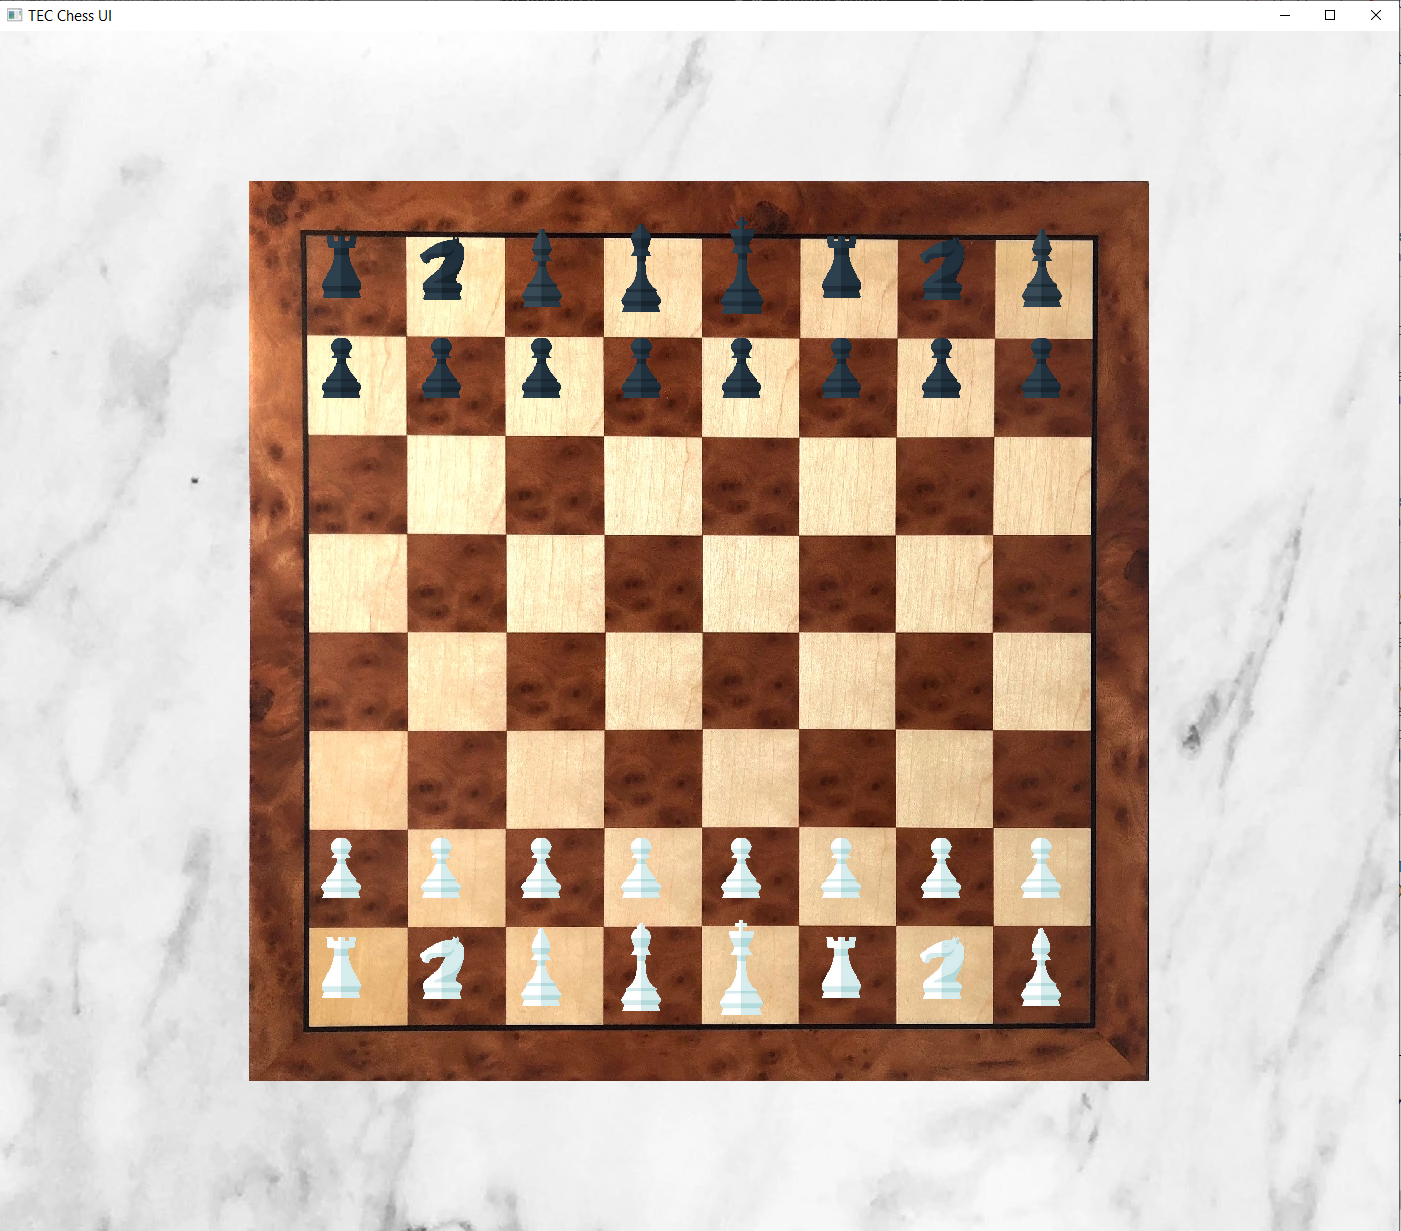
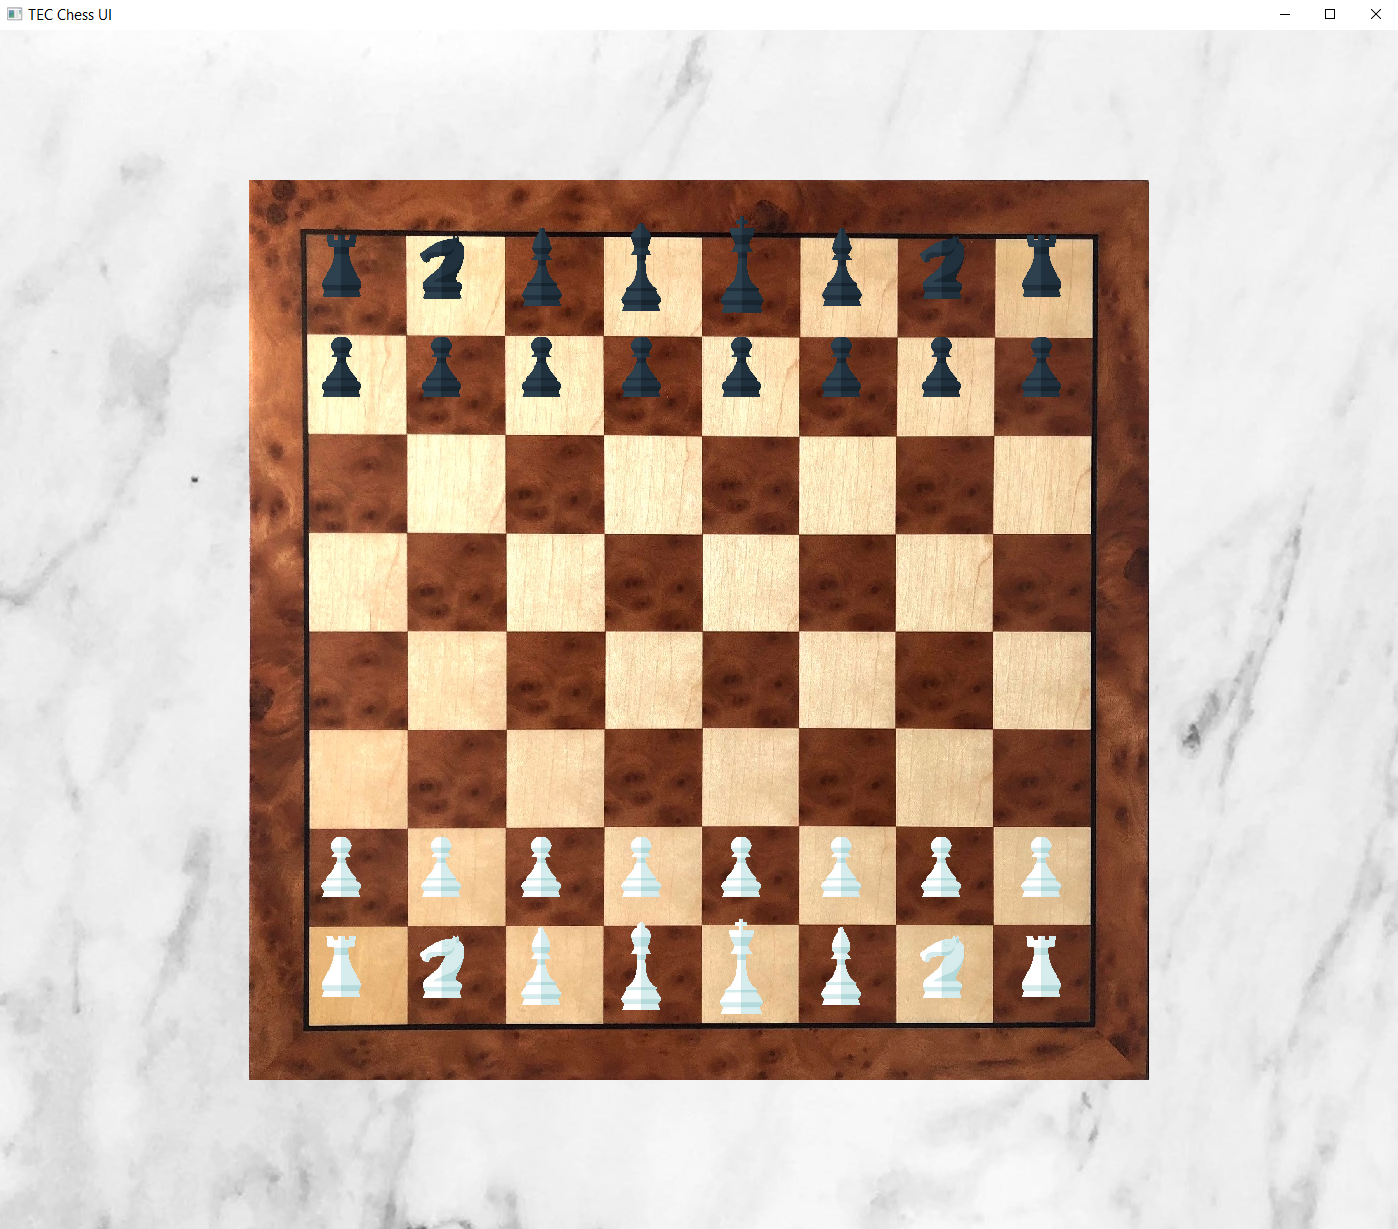
documentation

diff --git a/TEC Chess Console/TEC Chess Console/board_main.cpp b/TEC Chess Console/TEC Chess Console/board_main.cpp
@@ -146,8 +146,8 @@ void initPieceSprites(chess_ui::PieceSprite* spritePieces[][NUM_TEAM_PIECES])
 		x += 100;
 	}
 	for (int i = 5; i < 8; i++) {	// rightiest wBishop through wRook
-		spritePieces[0][i] = new chess_ui::PieceSprite(PieceFilenames[0][i - 5], x, Wy);
-		spritePieces[1][i] = new chess_ui::PieceSprite(PieceFilenames[1][i - 5], x, By);
+		spritePieces[0][i] = new chess_ui::PieceSprite(PieceFilenames[0][7 - i], x, Wy);
+		spritePieces[1][i] = new chess_ui::PieceSprite(PieceFilenames[1][7 - i], x, By);
 		x += 100;
 	}
 
